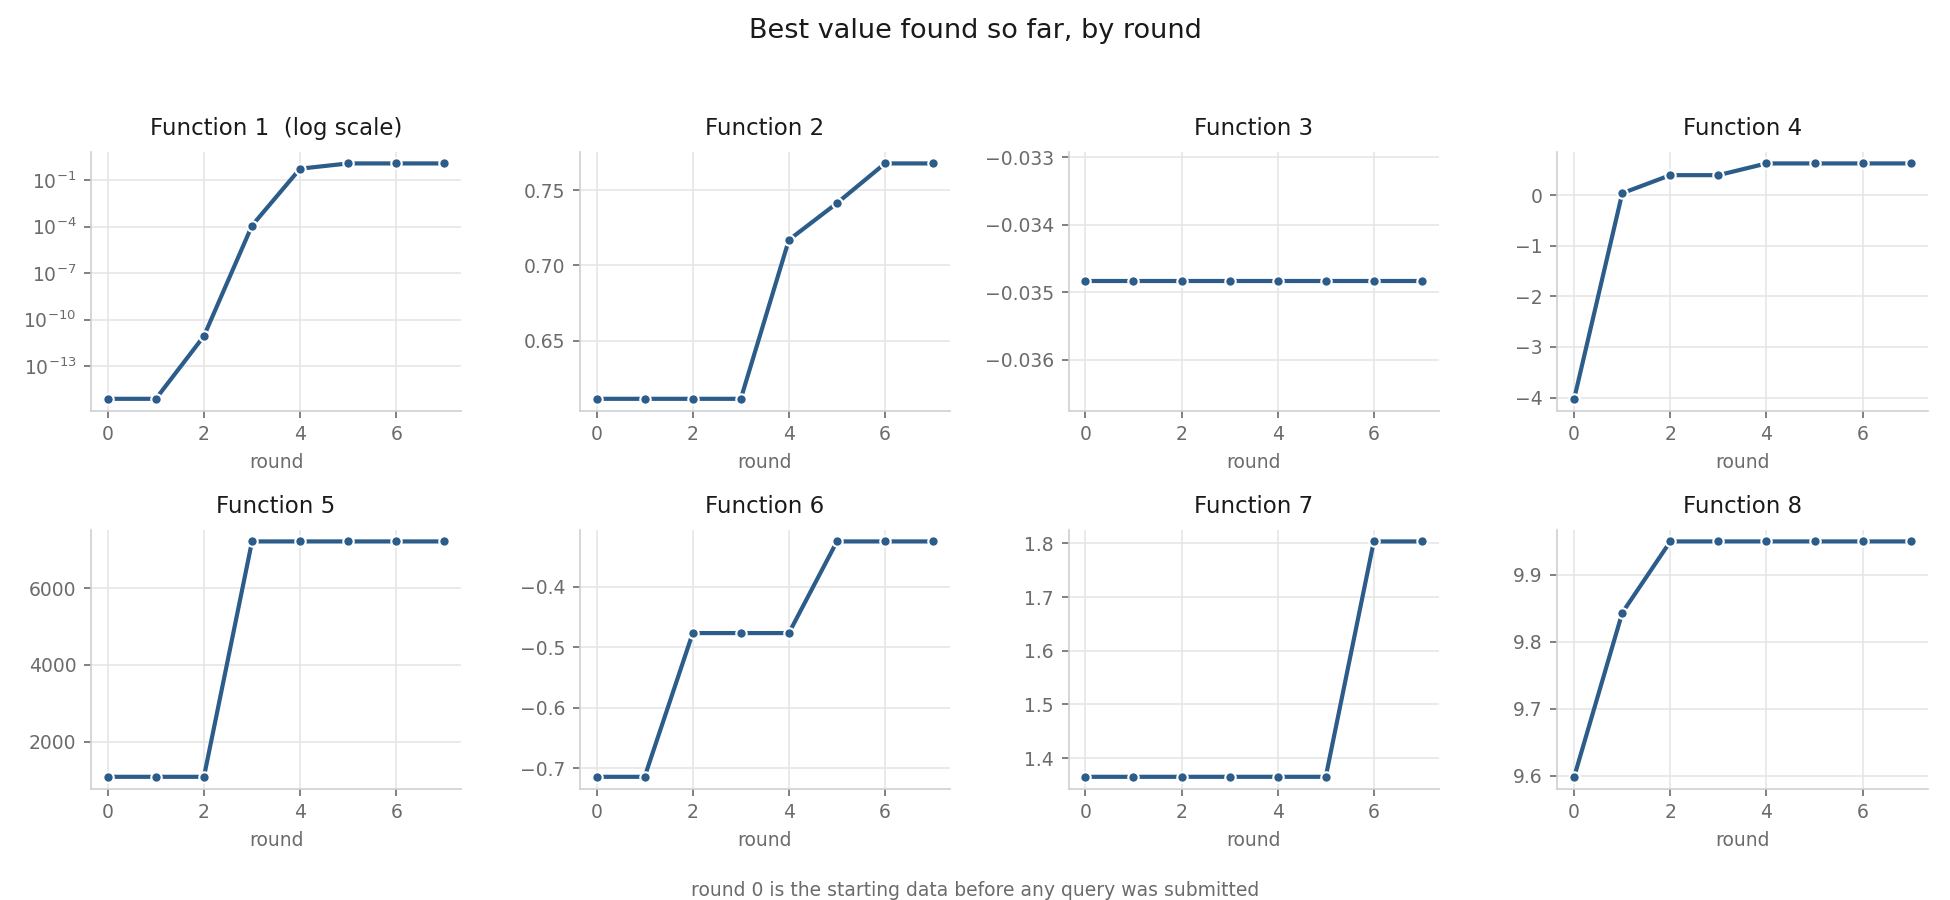
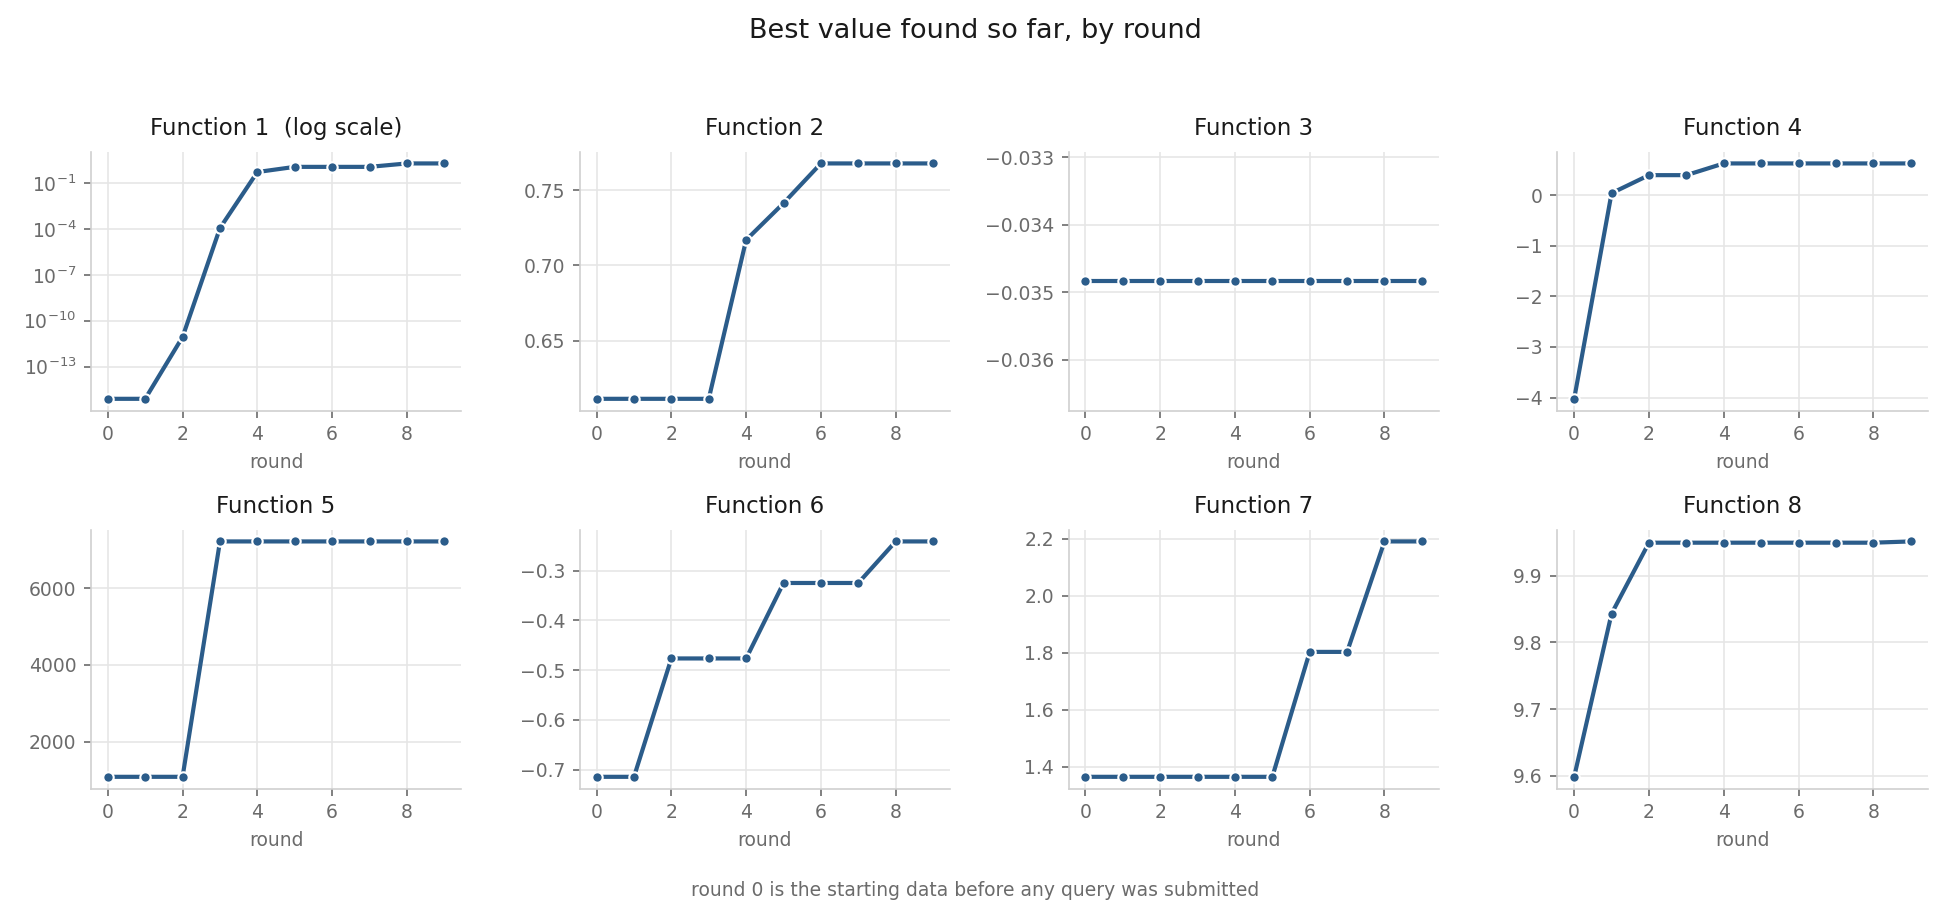
update datasheet and model card for round 10

diff --git a/notebooks/make_results_figure.py b/notebooks/make_results_figure.py
@@ -12,10 +12,13 @@ import matplotlib.pyplot as plt
 
 INK, MUTED, LINE = "#1a1a1a", "#6b6b6b", "#2b5c8a"
 
+# How many readings each function came with before I submitted anything.
+INITIAL = {1: 10, 2: 10, 3: 15, 4: 30, 5: 20, 6: 20, 7: 30, 8: 40}
+
 fig, axes = plt.subplots(2, 4, figsize=(13, 6))
 for i, ax in enumerate(axes.flat, start=1):
     y = np.ravel(np.load(f"data/function_{i}/outputs.npy"))
-    start = len(y) - 7                      # 7 rounds submitted so far
+    start = INITIAL[i]                      # first reading I added myself
     running = np.maximum.accumulate(y)      # best found up to each reading
     rounds = np.arange(0, len(y) - start + 1)
     series = np.concatenate([[running[start - 1]], running[start:]])

diff --git a/docs/model_card.md b/docs/model_card.md
@@ -2,93 +2,158 @@
 
 The model that chooses each week's queries for the black-box optimisation capstone.
 
-## Model description
+## Overview
 
-**Input:** a set of past readings for one function. Each reading is a point with between
-2 and 8 coordinates, every coordinate between 0 and 1, paired with the single number the
-function returned there. Between 17 and 47 readings per function at present.
+**Name:** per-function Gaussian process with a measured acquisition switch.
 
-**Output:** one new point to query next, in the same coordinate space. Not a prediction
-of the function's value. The model's job is to decide where to look, not to say what is
-there.
+**Type:** Bayesian optimisation. A surrogate model plus an acquisition function, not a
+predictor. Its job is to decide where to look next, not to say what is there.
 
-**Architecture:** Gaussian process regression with a Matern 5/2 kernel and a separate
-length scale per input, fitted each round by maximising marginal likelihood with ten
-restarts. A white noise term is added for Function 2 only, which the brief describes as
-noisy. Function 5's outputs are log transformed first.
+**Version:** 4, as used for round 10. Version history is in the section on how the
+strategy evolved, below.
 
-The next point is chosen by scoring 50,000 random candidates with an acquisition
-function and taking the best. Which acquisition function is not fixed. Each round, every
-function sits a leave-one-out test: drop a reading, refit, predict it, and compare the
-error against simply predicting the average. Pass, and the function uses Expected
-Improvement and chases the peak it believes in. Fail, and it uses Upper Confidence
-Bound, which leans on uncertainty instead.
+**Input:** the past readings for one function. Each reading is a point with between 2 and
+8 coordinates, every coordinate between 0 and 1, paired with the single number the
+function returned there. Between 19 and 49 readings per function at present.
 
-Function 1 does not use the Gaussian process at all. Its readings span about 120 orders
-of magnitude and change sign, so in double precision the surface reads as flat and there
-is no gradient to follow. It is handled by fitting a curve to the magnitude of the
-readings and querying where that curve peaks.
+**Output:** one new point to query, in the same coordinate space.
+
+## Intended use
+
+Suitable for choosing the next evaluation when evaluations are expensive and few, the
+function is not observable, and a rough model plus honest uncertainty is enough to rank
+candidate points. That covers hyperparameter tuning, physical experiments and simulation
+studies with a hard budget.
+
+Cases to avoid:
+
+- **Do not use it to predict a function value.** It is tuned to rank candidates, not to
+  be accurate. On Function 4 its leave-one-out error is about 5 against readings that
+  span roughly 10.
+- **Do not use it where evaluations are cheap.** With thousands of evaluations available,
+  fitting a Gaussian process every round is wasted effort and a direct search will beat it.
+- **Do not use it on a function whose behaviour changes across the space** without
+  checking first. A stationary kernel assumes the same smoothness everywhere. Function 3
+  appears to violate that and has not improved once in nine rounds.
+- **Do not trust it outside the region already sampled.** This has cost me two queries
+  and thirteen orders of magnitude, and it is the failure mode to watch for.
+
+## Architecture
+
+Gaussian process regression with a Matern 5/2 kernel and a separate length scale per
+input, fitted each round by maximising marginal likelihood with ten restarts. A white
+noise term is added for Function 2 only, which the brief describes as noisy. Function 5's
+outputs are log transformed first.
+
+The next point is chosen by scoring 50,000 random candidates with an acquisition function
+and taking the best. Which acquisition function is not fixed. Each round, every function
+sits a leave-one-out test: drop a reading, refit, predict it, and compare the error
+against simply predicting the average. Pass, and the function uses Expected Improvement
+and chases the peak it believes in. Fail, and it uses Upper Confidence Bound, which leans
+on uncertainty instead.
+
+Function 1 does not use the Gaussian process at all. Its readings span about 120 orders of
+magnitude and change sign, so in double precision the surface reads as flat and there is
+no gradient to follow. It is handled by fitting a curve to the magnitude of its readings
+along two axes and querying where that curve peaks.
+
+## How the strategy evolved
+
+| Version | Round | What changed and why |
+|---|---|---|
+| 1 | 1 | One Gaussian process per function, Matern 5/2 with a length scale per input, Expected Improvement for all eight. Six of the eight results then fell outside the model's own confidence band. |
+| 2 | 2 | Added the leave-one-out test and the switch between Expected Improvement and Upper Confidence Bound, so the choice between exploiting and exploring is measured rather than guessed. Replaced the Gaussian process on Function 1 with a curve fit. |
+| 3 | 8 | Restricted Function 1 to querying between readings already held. Round 7 had extrapolated past them on an unchecked symmetry assumption and fell from 1.18 to 2.2e-13. Round 8 returned 1.98, the best reading of the run. |
+| 4 | 9 | Added a trust region on Function 4 after it passed the leave-one-out test and still returned -8.85. Candidates are drawn from a box around its best point. The next reading was -1.26. Box shrunk from 0.15 to 0.10 in round 10. |
 
 ## Performance
 
-Measured as the best value found per function, against where each started.
+Best value found per function, against where each started. Nine rounds submitted.
 
-| Function | Inputs | Readings | Best at start | Best now | Rounds since last gain |
-|---|---|---|---|---|---|
-| 1 | 2 | 17 | 7.711e-16 | 1.184 | 2 |
-| 2 | 2 | 17 | 0.6112 | 0.7679 | 1 |
-| 3 | 3 | 22 | -0.03484 | -0.03484 | 18 |
-| 4 | 4 | 37 | -4.026 | 0.6312 | 3 |
-| 5 | 4 | 27 | 1089 | 7216 | 4 |
-| 6 | 5 | 27 | -0.7143 | -0.3246 | 2 |
-| 7 | 6 | 37 | 1.365 | 1.804 | 1 |
-| 8 | 8 | 47 | 9.598 | 9.95 | 5 |
+| Function | Inputs | Readings | Best at start | Best now | Rounds since last gain | Leave-one-out error |
+|---|---|---|---|---|---|---|
+| 1 | 2 | 19 | 7.711e-16 | 1.985 | 1 | not applicable |
+| 2 | 2 | 19 | 0.6112 | 0.7679 | 3 | 0.229 |
+| 3 | 3 | 24 | -0.03484 | -0.03484 | 9 | 0.082 |
+| 4 | 4 | 39 | -4.026 | 0.6312 | 5 | 5.061 |
+| 5 | 4 | 29 | 1089 | 7216 | 6 | 1.902 |
+| 6 | 5 | 29 | -0.7143 | -0.2411 | 1 | 0.253 |
+| 7 | 6 | 39 | 1.365 | 2.191 | 1 | 0.305 |
+| 8 | 8 | 49 | 9.598 | 9.952 | 0 | 0.054 |
 
 ![Progress by round](../results/progress.png)
 
-Seven rounds submitted. Six of the eight functions have improved on their starting best.
-Function 1 has moved furthest, about fifteen orders of magnitude, and every step of that
-came from replacing the model rather than adding data.
+Six of the eight have improved on their starting best. Function 1 has moved furthest,
+about fifteen orders of magnitude, and every step of that came from replacing the model
+rather than adding data.
 
-A second measure matters as much: whether the model's prediction matched the result.
-After Round 1, six of eight results fell outside the model's own confidence band, which
-is what prompted the leave-one-out test. By Round 5 the Function 1 curve predicted log10
-of the size at +0.06 and the reading came back at +0.073.
+A second metric matters as much as the best value: whether the model's prediction matched
+the result. After round 1, six of eight results fell outside the model's own confidence
+band, which is what prompted the leave-one-out test. By round 8 the Function 1 curve
+predicted 1.66 and the reading came back at 1.98, its closest prediction of the run.
 
-## Limitations
+Improvements per round, counting how many of the eight beat their previous best: 2, 4, 2,
+3, 3, 2, 0, 3, 1. The decline is the clearest single summary of how the run has gone.
 
-**Function 3 has not improved in eighteen rounds.** Its best reading is still the fourth
-one ever taken, and it has failed the leave-one-out test every single week. The most
-likely explanation is that a stationary kernel, which assumes the same smoothness
-everywhere, cannot represent it.
+## Assumptions, constraints and failure modes
 
-**More data does not always help.** Function 4's leave-one-out error rose from 1.19 at
-31 readings to 4.74 at 37. Its newer readings come from regions the kernel cannot
-reconcile with the rest, so fitting them degrades the fit everywhere. Function 8 improved
-over the same growth, from 0.138 to 0.093.
+**Assumption: the functions are equally smooth everywhere.** That is what a stationary
+kernel means. Function 3 has failed the leave-one-out test every week and improved in none
+of nine rounds, which is what a violated stationarity assumption looks like.
 
-**Sample size is the binding constraint.** Between 17 and 47 readings for up to 8
-dimensions. Nearly every reading is a support vector when an SVM is fitted, meaning
-nothing sits comfortably away from any boundary.
+**Assumption: more data improves the model.** Function 4 disproves it. Its leave-one-out
+error rose from about 1.2 at 31 readings to about 5 at 39. Its newer readings come from
+regions the kernel cannot reconcile with the rest, so fitting them degrades the fit
+everywhere.
 
-**The model is confident where it should not be.** It has twice sent a query somewhere
-it had never measured and been wrong by more than ten orders of magnitude.
+**Constraint: sample size.** Between 19 and 49 readings for up to 8 dimensions. Nearly
+every reading is a support vector when an SVM is fitted, meaning nothing sits comfortably
+away from any boundary.
+
+**Constraint: one query per function per week.** Every choice costs a week, so a wasted
+query cannot be recovered by running more of them. This rules out grid search and anything
+needing a validation budget.
+
+**Failure mode: confident extrapolation.** The model will happily propose a point far from
+anything measured and report a narrow confidence band there. Rounds 3, 4 and 7 all failed
+this way, round 7 by thirteen orders of magnitude. The trust region on Function 4 and the
+interpolation rule on Function 1 are both patches for this, applied after the fact.
+
+**Failure mode: a leave-one-out test that is too easy to pass.** It compares the model
+against a mean predictor, which on a badly behaved function is a low bar. Function 4
+passed it and then returned its worst reading of the run.
+
+## Transparency and reproducibility
+
+Everything that chose a query is in the repository, and it is meant to be checkable rather
+than taken on trust.
+
+Each round is a script under `notebooks/`, committed with the data as it stood at the time,
+so any past round can be checked out and rerun against the readings that were actually
+available then. `notebooks/capstone_walkthrough.ipynb` does exactly that: it rolls the data
+back by one reading, reruns the leave-one-out test on the rolled-back data, regenerates the
+queries, and prints whether they match the file that was submitted. That check is the
+reason to believe anything else in this card.
+
+This matters for adaptation as much as for verification. Every change in the version table
+above was made because a recorded prediction missed a recorded result. Without the record,
+round 7's failure would have been a bad week rather than a reason to stop extrapolating,
+and Function 4's rising error would have been invisible.
+
+What a reader would still need in order to fully reproduce this: the eight functions
+themselves, which the course does not disclose. Everything on my side is here.
 
 ## Trade-offs
 
 **Exploiting requires an honest model, and mine has not always been.** The leave-one-out
-test exists because of this, but it is a coarse gate. It compares against a mean
-predictor, which on a badly behaved function is a low bar to clear.
+test exists because of this, but it is a coarse gate.
 
-**No trust region.** The model proposes points anywhere in the space, including far from
-anything measured. Function 4's swings between 0.63, -7.35 and -0.12 are the cost.
+**Interpretability over flexibility.** Linear regression, SVMs and a small neural network
+were all tested and none replaced the Gaussian process, because none reports uncertainty
+and uncertainty is the entire input to the acquisition function. The network in particular
+gave no usable decision boundary: not one observed point came back with a predicted
+probability near 0.5.
 
-**Interpretability was chosen over flexibility.** Linear regression, SVMs and a small
-neural network were all tested and none replaced the Gaussian process, because none of
-them reports uncertainty and uncertainty is the entire input to the acquisition
-function. The network in particular gave no usable decision boundary: not one observed
-point came back with a predicted probability near 0.5.
-
-**One query per function per week.** Every choice costs a week, so a wasted query cannot
-be recovered by running more of them. This rules out grid search and any method needing
-a validation budget.
+**Robustness over peak performance, latterly.** The trust region on Function 4 has not
+raised its best value, which is still 0.63. It cut the worst case from -8.85 to -1.26. With
+few rounds left, a bounded loss is worth more than an unlikely gain.

diff --git a/docs/datasheet.md b/docs/datasheet.md
@@ -23,7 +23,8 @@ number the function returned there.
 - Every input is a real number between 0 and 1.
 - 175 readings were supplied at the start, from 10 for Function 1 up to 40 for
   Function 8.
-- 231 readings after seven rounds. Every round adds exactly eight, one per function.
+- 247 readings after nine rounds. Every round adds exactly eight, one per function,
+  so the count is 175 plus 8 times the number of rounds.
 
 There is no missing data. Every query submitted has returned a value.
 
@@ -40,7 +41,9 @@ This is not a sample of anything larger. The points are chosen, not drawn, and t
 chosen deliberately: mostly by fitting a Gaussian process to what I already have and
 picking the point that maximises Expected Improvement.
 
-Collected from late August 2026 onward, one round per week.
+Collected from late August 2026 to late September 2026, one round per week, nine rounds
+in total. Turnaround from submitting a query to receiving its value ran between one and
+three days.
 
 ## Preprocessing, cleaning and labelling
 
@@ -84,4 +87,6 @@ functions.
 ## Maintenance
 
 Me, for the duration of the capstone. Each round's results are committed separately, so
-the dataset as it stood at any past round can be recovered from the history.
+the dataset as it stood at any past round can be recovered from the history. That is not
+just bookkeeping: `notebooks/capstone_walkthrough.ipynb` uses it to roll the data back one
+reading and check that the recorded strategy really does reproduce the queries I sent.
